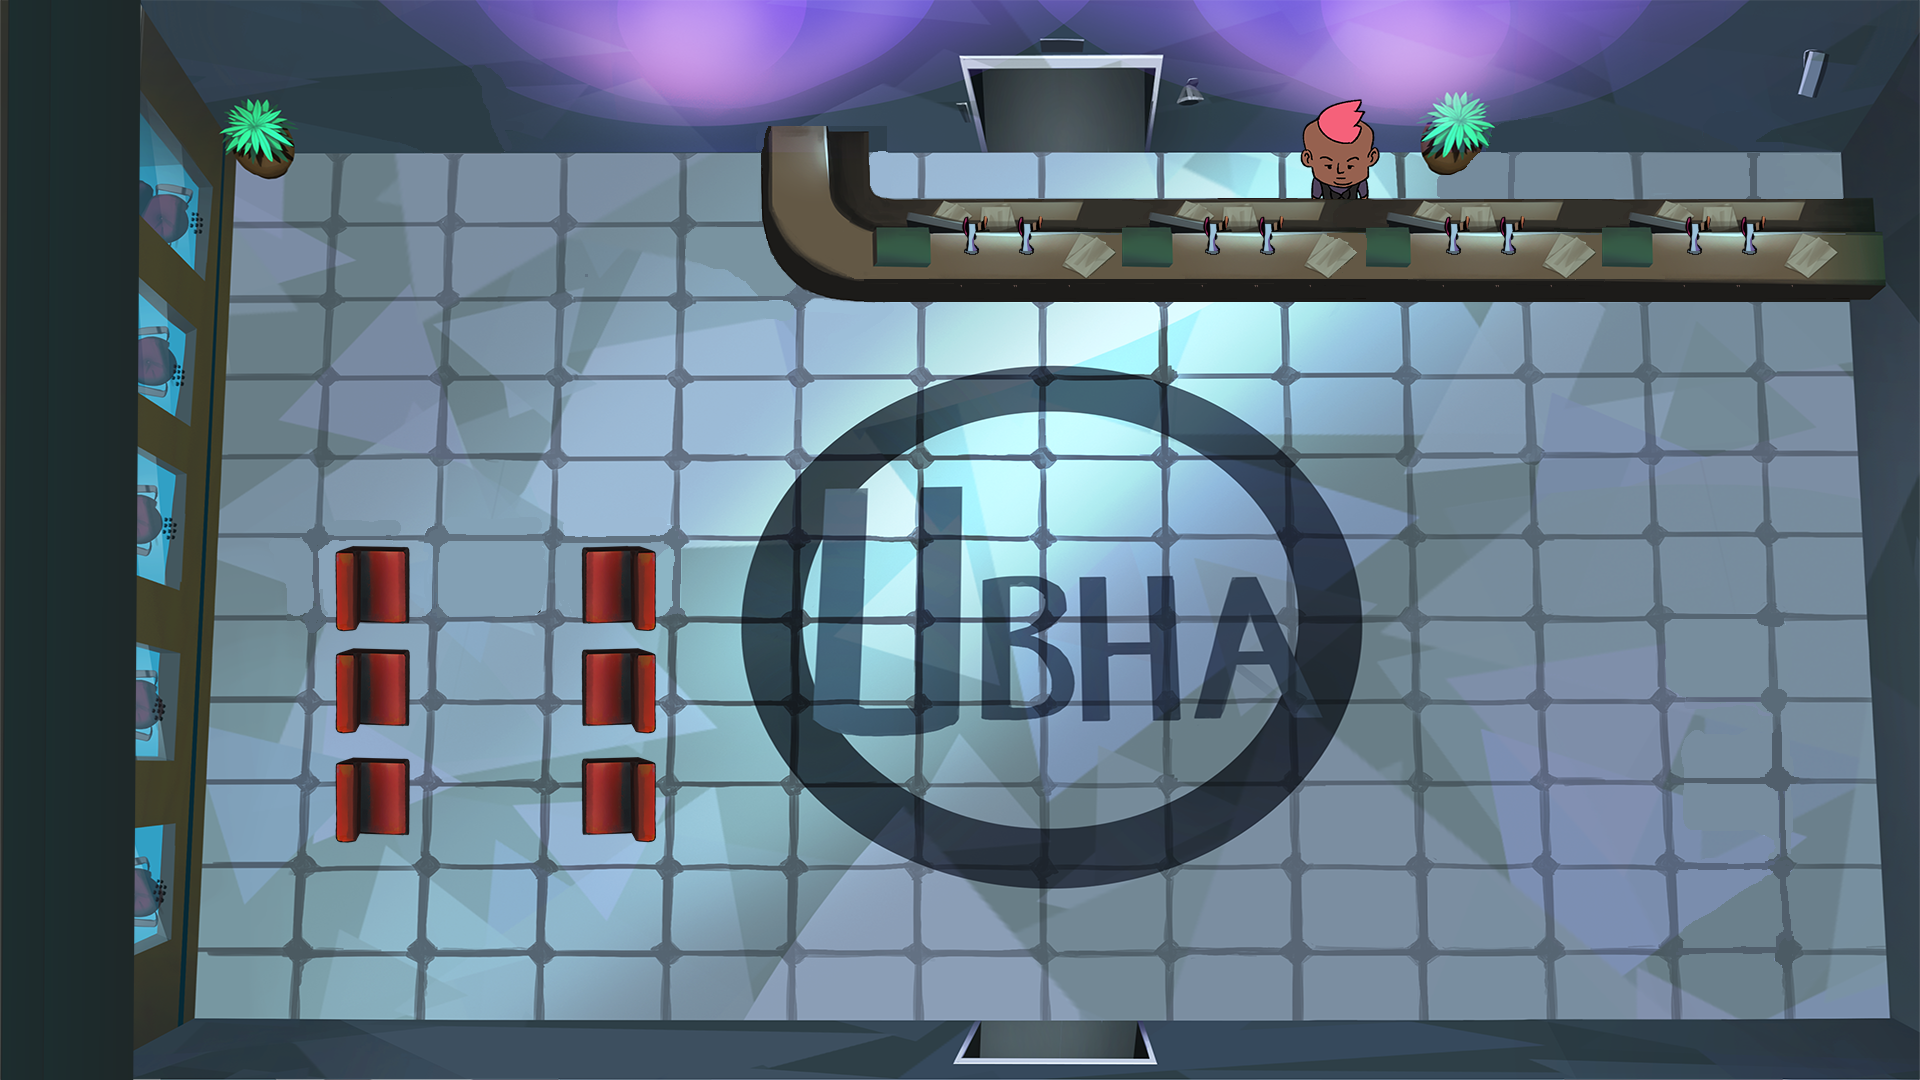
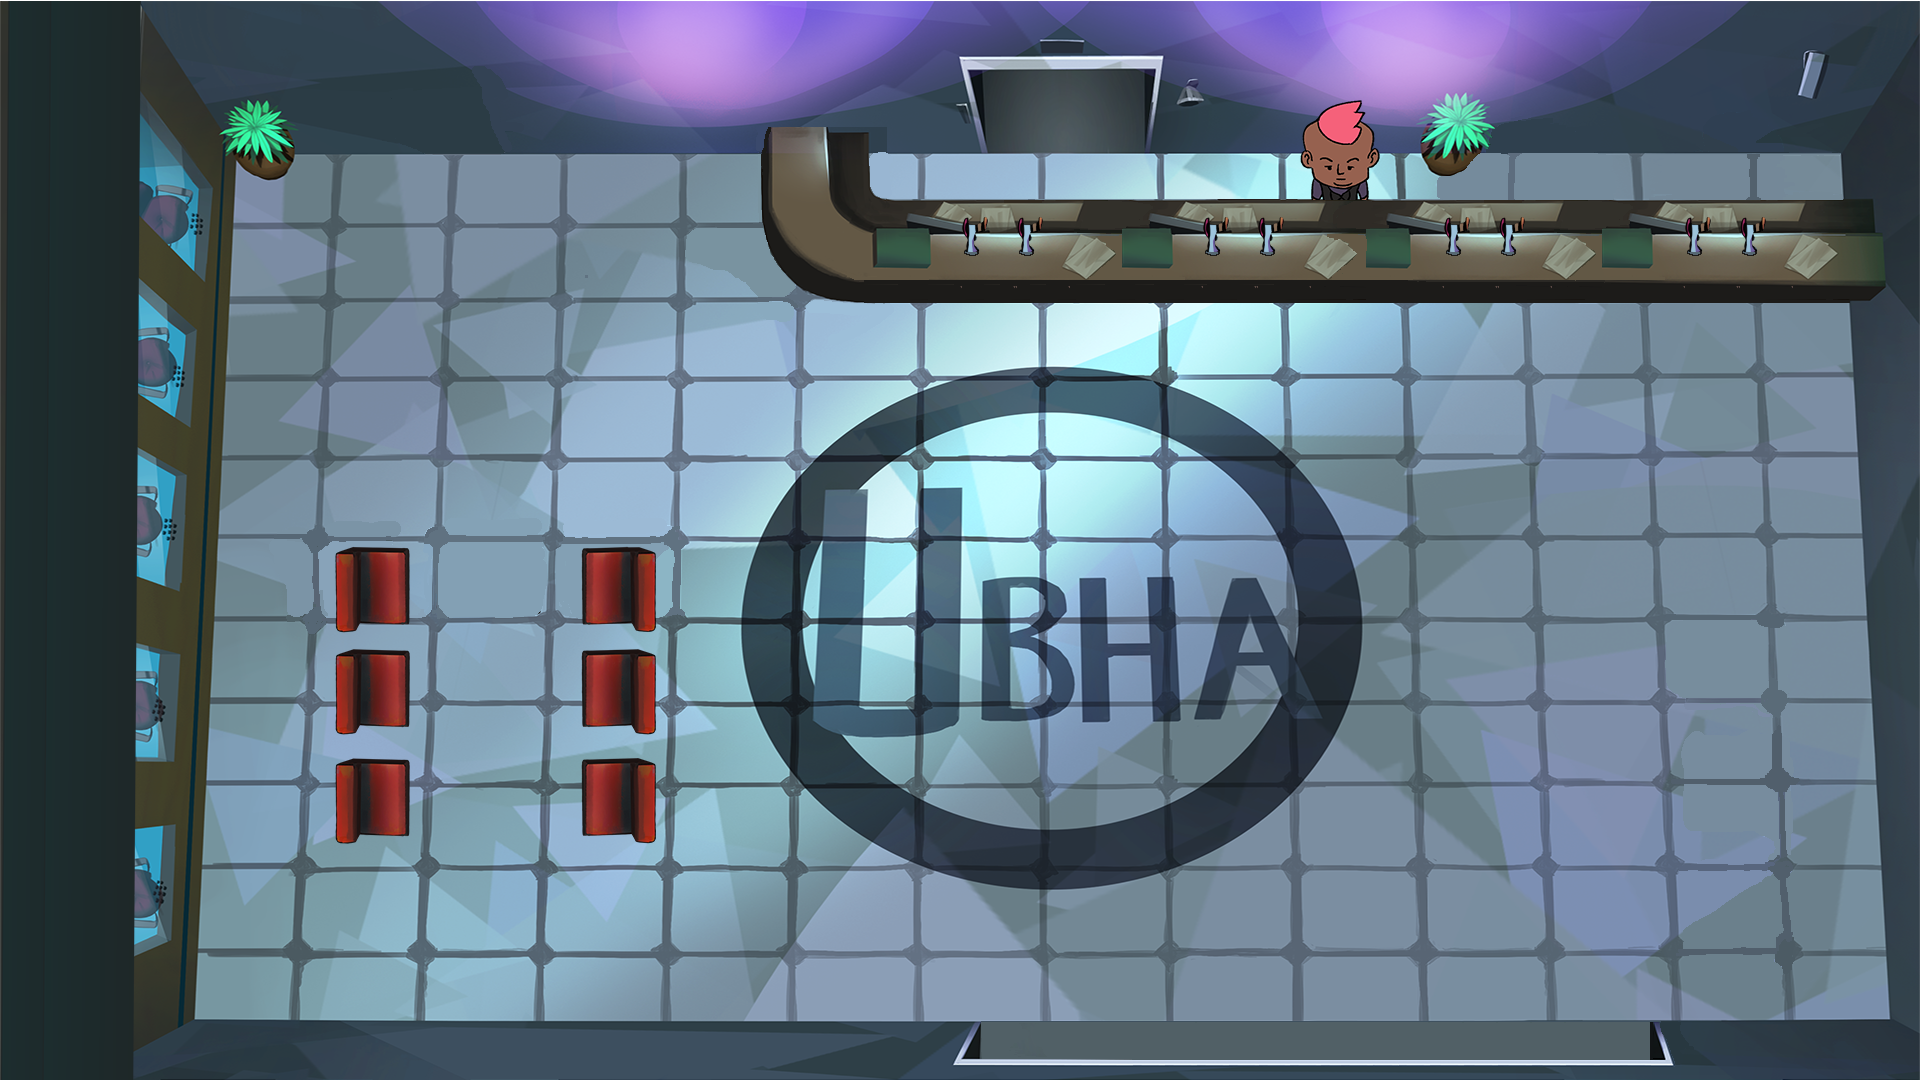
(Add) Bubble sprite

diff --git a/src/main.c b/src/main.c
@@ -12,17 +12,54 @@
 //SYS->STATUS == 2 -> Menu end
 //SYS->STATUS != 1, 2 et 0 -> Game loop
 
+ int generate_random_cocktail()
+{
+	int val = 0;
+
+	val = (rand() % (10 - 3 + 1)) + 3;
+	return (val);
+}
+
 void verif_bubble(sys_t *sys)
 {
-	int i = 0;
-	//LES BULLES VONT DE OBJ 3 à OBJ 10
-
-	if (sys->player.pass != 0) {
-		srand(time(NULL));
-		i = (rand() % (10 - 3 + 1)) + 3;
-		sfRenderWindow_drawSprite(sys->win, sys->obj[i]->sprite, NULL);
-		sfSprite_setTextureRect(sys->obj[i]->sprite, sys->obj[i]->rect);
+	if (sys->player.one == 11) {
+		sys->obj[sys->player.p1]->pos.y = sys->obj[11]->pos.y - 150;
+		sys->obj[sys->player.p1]->pos.x = sys->obj[11]->pos.x;
+		sfSprite_setPosition(sys->obj[sys->player.p1]->sprite, sys->obj[sys->player.p1]->pos);
+		sfRenderWindow_drawSprite(sys->win, sys->obj[sys->player.p1]->sprite, NULL);
+		sfSprite_setTextureRect(sys->obj[sys->player.p1]->sprite, sys->obj[sys->player.p1]->rect);
 	}
+	if (sys->player.two == 12) {
+		sys->obj[sys->player.p2]->pos.y = sys->obj[12]->pos.y - 150;
+		sys->obj[sys->player.p2]->pos.x = sys->obj[12]->pos.x;
+		sfSprite_setPosition(sys->obj[sys->player.p2]->sprite, sys->obj[sys->player.p2]->pos);
+		sfRenderWindow_drawSprite(sys->win, sys->obj[sys->player.p2]->sprite, NULL);
+		sfSprite_setTextureRect(sys->obj[sys->player.p2]->sprite, sys->obj[sys->player.p2]->rect);
+	}
+	if (sys->player.three == 13) {
+		sys->obj[sys->player.p3]->pos.y = sys->obj[13]->pos.y - 150;
+		sys->obj[sys->player.p3]->pos.x = sys->obj[13]->pos.x;
+		sfSprite_setPosition(sys->obj[sys->player.p3]->sprite, sys->obj[sys->player.p3]->pos);
+		sfRenderWindow_drawSprite(sys->win, sys->obj[sys->player.p3]->sprite, NULL);
+		sfSprite_setTextureRect(sys->obj[sys->player.p3]->sprite, sys->obj[sys->player.p3]->rect);
+	}
+}
+
+void player_detection(sys_t *sys, int i)
+{
+	if (i == 11) {
+		sys->player.one = i;
+		sys->player.p1 = generate_random_cocktail();
+	}
+	if (i == 12) {
+		sys->player.two = i;
+		sys->player.p2 = generate_random_cocktail();
+	}
+	if (i == 13) {
+		sys->player.three = i;
+		sys->player.p3 = generate_random_cocktail();
+	}
+	printf("%d, %d, %d\n", sys->player.p1, sys->player.p2, sys->player.p3);
 }
 
 void move_player(sys_t *sys, int i, int max_value)
@@ -37,7 +74,7 @@ void move_player(sys_t *sys, int i, int max_value)
 			sys->obj[i]->pos.y = 1150;
 		sfSprite_setPosition(sys->obj[i]->sprite, sys->obj[i]->pos);
 	} else
-		sys->player.pass = 1;
+		player_detection(sys, i);
 }
 
 void which_status_game_loop(sys_t *sys)
@@ -49,6 +86,8 @@ void which_status_game_loop(sys_t *sys)
 		render_objects(sys);
 		if (sys->seconds_player > 0.01) {
 			move_player(sys, 11, 544);
+			move_player(sys, 12, 544);
+			move_player(sys, 13, 544);
 			sfClock_restart(sys->clock_player);
 		}
 	//}

diff --git a/src/tools/objects_handling.c b/src/tools/objects_handling.c
@@ -26,8 +26,8 @@ void init_objects(sys_t *sys)
 	sys->obj[10] = add_obj("assets/img/bubble/watermelon.png", (sfVector2f){1000, 50}, (sfIntRect){0, 0, 225, 143});
 
 	sys->obj[11] = add_obj("assets/img/player/P1.png", (sfVector2f){1000, 1000}, (sfIntRect){0, 0, 80, 136});
-	sys->obj[12] = add_obj("assets/img/player/P1.png", (sfVector2f){1100, 1000}, (sfIntRect){0, 0, 80, 136});
-	sys->obj[13] = add_obj("assets/img/player/P1.png", (sfVector2f){1200, 1000}, (sfIntRect){0, 0, 80, 136});
+	sys->obj[12] = add_obj("assets/img/player/P1.png", (sfVector2f){1300, 1000}, (sfIntRect){0, 0, 80, 136});
+	sys->obj[13] = add_obj("assets/img/player/P1.png", (sfVector2f){1550, 1000}, (sfIntRect){0, 0, 80, 136});
 
 	sys->obj[14] = add_obj("assets/img/blender/blender_bg.png", (sfVector2f){400, 200}, (sfIntRect){0, 0, 1200, 735});
 	sys->obj[15] = add_obj("assets/img/blender/blender_step1.png", (sfVector2f){400, 200}, (sfIntRect){0, 0, 1200, 735});
@@ -35,7 +35,7 @@ void init_objects(sys_t *sys)
 	sys->obj[17] = add_obj("assets/img/blender/blender_step3.png", (sfVector2f){400, 200}, (sfIntRect){0, 0, 1200, 735});
 
 	sys->obj[98] = add_obj("assets/img/hud/door.png",
-	(sfVector2f){953, 1058}, (sfIntRect){0, 0, 205, 23});
+	(sfVector2f){970, 1058}, (sfIntRect){0, 0, 670, 22});
 	sys->obj[99] = add_obj("assets/img/hud/mouse.png",
 	(sfVector2f){900, 440}, (sfIntRect){0, 0, 40, 40});
 }

diff --git a/src/tools/init.c b/src/tools/init.c
@@ -39,6 +39,7 @@ void init_window(sys_t *sys)
 	sfRenderWindow_setFramerateLimit(sys->win, 60);
 	sys->clock = sfClock_create();
 	sys->clock_player = sfClock_create();
+	srand(time(NULL));
 	sys->status = 0;
 	sys->blen_step = 14;
 	sys->select = 1;
@@ -46,7 +47,6 @@ void init_window(sys_t *sys)
 	sys->money = malloc(sizeof(char) * 10);
 	sys->int_money = 50;
 	sys->error_message = 0;
-	sys->player.pass = 0;
 	init_inventory(sys);
 	init_objects(sys);
 	init_text_menu(sys);

diff --git a/include/main.h b/include/main.h
@@ -88,7 +88,12 @@
 	} bshop_t;
 
 	typedef struct player_s {
-		int pass;
+		int one;
+		int two;
+		int three;
+		int p1;
+		int p2;
+		int p3;
 	} player_t;
 
 	typedef struct sys_s {
